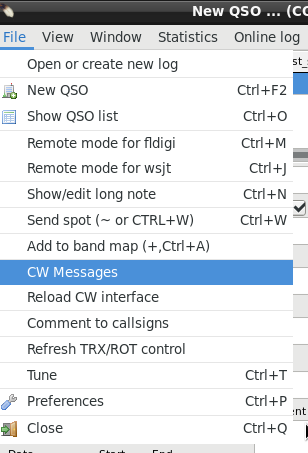
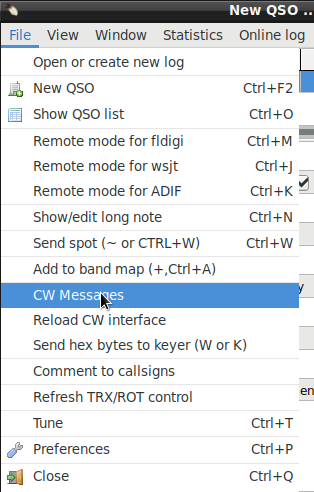
Added serial CW keyer commanding menu item
Suddenly noticed that my winkeyer and IC7300 have different
        order of CW paddle plug's pin order.
        It was ok with IC7300, reverse with winkey.
        Fastest way to fix this is to set/reset winkeyer moderegister bit4
        This could not be done with Cqrlog as it sends only text to winkeyer.

        Added menuitem: NewQSO/File/Send hex bytes to keyer (W or K)

        Item is visible with winkeyer or K3NG keyer and allows non text
	hex bytes to be sent to serial line.
        Tested with Winkeyer.
	I do not have K3NG to test but assume it possible can be useful
	also with it in some cases.
	The serial sending protocol is same with both keyers.

	Help files fixed.

diff --git a/help/h26.html b/help/h26.html
@@ -75,7 +75,14 @@
         </tr>
         </tbody>
     </table>
-    </p><a name=mk1><br></a> <img src="img/misc8.png" name="8"  width="500" height="85">
+    </p>
+    <p>
+    <img src=img/h96a.png><br>
+    <strong>Send hex bytes to keyer</strong>. Will send hex bytes to Winkeyer or K3NG allowing non charcter bytes to be sent from Cqrlog in case there sudden need to change some of keyer's settings.
+    <br>Consult your keyer's manual to find needed commands.
+    </p>
+    
+   <a name=mk1><br></a> <img src="img/misc8.png" name="8"  width="500" height="85">
    </img>
    <p><strong>Memory keys</strong> form has buttons PgUp and PgDn that are not configurable. They alter CW speed in same way as keyboard keys PgUp and PgDn that some, specially laptop computers, may not even have.
    <br>When using <strong>Memory keys</strong>-form with mouse, or keyboard, you are able to lauch memories by mouse click or by  <strong>F</strong>-key press from keyboard keys. Same with PgUp and PgDn, both are working, keys and mouse click.
